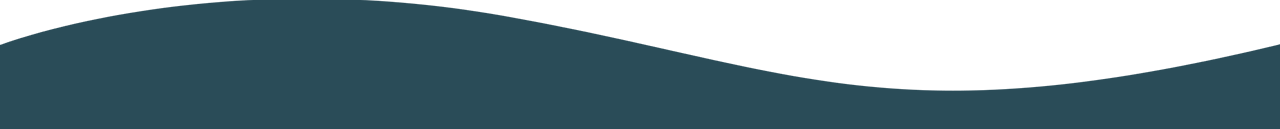
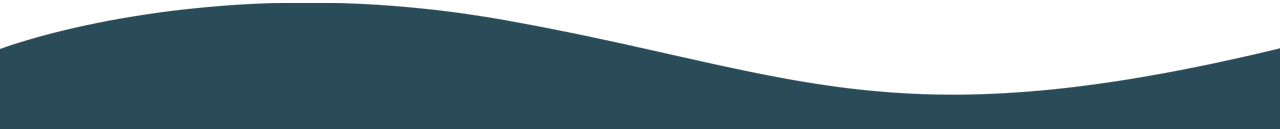
style: Adjust heights and background sizes for wave animations

Changed region(s): [[0.0, 0.0, 1.0, 0.7442]]

diff --git a/app/globals.css b/app/globals.css
@@ -104,7 +104,7 @@
   -webkit-mask: var(--mask); 
   mask: var(--mask);
 
-  height: 50vh;
+  height: 51vh;
   width: 100%;
   position: absolute;
   bottom: 0;
@@ -121,7 +121,7 @@
 }
 
 .wave {
-  height: 15vh;
+  height: 20vh;
   width: 100%;
   position: absolute;
   bottom: 0;
@@ -130,7 +130,7 @@
 .wave.wave1 {
  
   background: url('./images/wave-one.png');
-  background-size: 150vh 25vh;
+  background-size: 150vh 26vh;
   animation: animate 45s linear infinite;
   z-index: 998;
   opacity: 1;
@@ -202,7 +202,7 @@
 
 .wave.wave5 {
   background: url('./images/wave-five.png');
-  background-size: 80vh 20vh;
+  background-size: 150vh 20vh;
   animation: animate5 13s linear infinite;
   z-index: 993;
   opacity: 1;
@@ -211,7 +211,7 @@
 }
 @keyframes animate5 {
   0% {
-    background-position-x: 80vh;
+    background-position-x: 150vh;
   }
   100% {
     background-position-x: 0;

diff --git a/app/layout.js b/app/layout.js
@@ -1,5 +1,5 @@
 "use client";
-import bg from "./images/background4.png";
+import bg from "./images/horizon-background.png";
 import { Inter } from "next/font/google";
 import Navbar from "./(components)/Navbar";
 import InformationPage from "./(components)/InformationPage";
